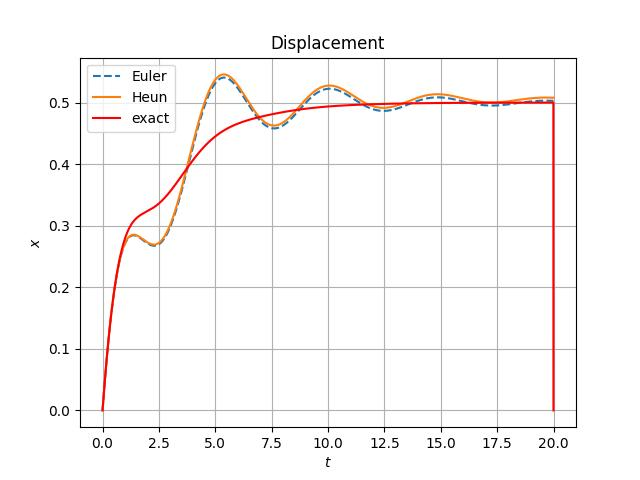
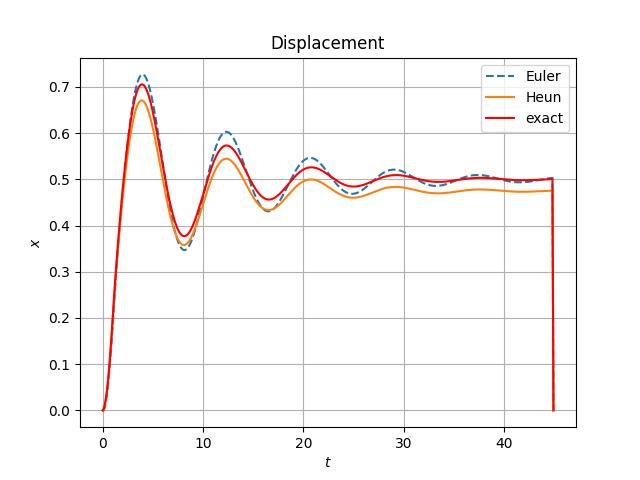
1216

diff --git a/eular.py b/eular.py
@@ -5,38 +5,57 @@ from matplotlib import pyplot as plt
 
 
 
-h=float(input("step size:"))   #define the step size
-#h=0.01 
+#h=float(input("step size:"))   #define the step size
+h=0.1 #for test
 print("h=")
 print(h)
 
-x=np.arange(0,20,h) # each of the time point
+x=np.arange(0,45,h) # each of the time point
 
-def Euler(f1,f2,f3,f4,x): #function for Euler method
-    h=x[1]-x[0]
-    y=np.zeros(len(x))
-    z1=np.zeros(len(x))
-    z2=np.zeros(len(x))
-    z3=np.zeros(len(x))
-    z4=np.zeros(len(x))
-    z4[0]=float('0.5') #the act force 
-    y[0]=0
+
+def impulse(t):
+    if t<1:
+        return 1
+    else:
+        return 0
+
+def Euler(Z,x): #function for Euler method
+    Z = np.zeros((len(x), 4))
+    Z3=np.zeros(len(x))
+    for i in range(len(x)-1):
+        Z[i+1]=h*state_matrix(x[i], Z[i])+Z[i]
+        Z3[i]=Z[i][2]
+    
+    return Z3
+
+'''
     for i in range(len(x)-1):
         z1[i+1]=z1[i]+h*f1(z2[i],x[i])   
         z2[i+1]=z2[i]+h*f2(z1[i],z2[i],z4[i],x[i])
         z3[i+1]=z3[i]+h*f3(z4[i],x[i])
         z4[i+1]=z4[i]+h*f4(z2[i],z4[i],x[i])
+#        test=x[i]
+#       test1=impulse(x[i])
     return [z1,z2,z3,z4]
+'''
 
+def heun(Z,x): #function for Heun method
+    Z = np.zeros((len(x), 4))
+    Z3=np.zeros(len(x))
+    for i in range(len(x)-1):
+        Z[i+1]=Z[i]+h*(0.5*state_matrix(x[i], Z[i])+0.5*state_matrix(x[i]+h, Z[i]+h*state_matrix(x[i], Z[i])))
+        Z3[i]=Z[i][2]
+    
+    return Z3
 
-def heun(f1,f2,f3,f4,x): #function for Heun method
+'''
     h=x[1]-x[0]
     y=np.zeros(len(x))
     z1=np.zeros(len(x))
     z2=np.zeros(len(x))
     z3=np.zeros(len(x))
     z4=np.zeros(len(x))
-    z4[0]=float('0.5') #the act force
+    z4[0]=z4[1]=0.5 #the act force
     y[0]=0
     for i in range(len(x)-1):
         z1[i+1]=z1[i]+h*(0.5*f1(z2[i],x[i])+0.5*f1(z2[i]+h,x[i]+h*(f1(z2[i],x[i]))))
@@ -44,34 +63,47 @@ def heun(f1,f2,f3,f4,x): #function for Heun method
         z3[i+1]=z3[i]+h*(0.5*f3(z4[i],x[i])+0.5*f3(z4[i]+h,x[i]+h*(f3(z4[i],x[i]))))
         z4[i+1]=z4[i]+h*(0.5*f4(z2[i],z4[i],x[i])+0.5*f4(z2[i]+h,z4[i]+h,x[i]+h*(f4(z2[i],z4[i],x[i]))))
     return [z1,z2,z3,z4]
+'''
+
+
+def state_matrix(x,Z):
+ dz1=Z[1]
+ dz2=-Z[0]-Z[1]+Z[3]
+ dz3=Z[3]
+ dz4=Z[1]-Z[3]+0.5*impulse(x)
+
+ return np.array([dz1,dz2,dz3,dz4])
+
 
 
 f1=lambda z2,x: z2
-f2=lambda z1,z2,z4,x: -z1- 0.5*z2**2+   z4
+f2=lambda z1,z2,z4,x: -z1- z2+   z4 -0.5  #f2=lambda z1,z2,z4,x: -z1- 0.5*z2**2+   z4
 f3=lambda z4,x:            z4
-f4=lambda z2,z4,x:-z2-z4
+f4=lambda z2,z4,x:z2-z4
 
 
 def ode(t,u): #odeint - the exact solution
     z1,z2,z3,z4=u
     dz1=z2
-    dz2=-z1-z2+z4
+    dz2=-z1-z2+z4-0.5
     dz3=z4
-    dz4=-z2-z4+0.5
+    dz4=z2-z4
+
+
     dzdt=[dz1,dz2,dz3,dz4]
     return dzdt
 
 
 
-
-[z1,z2,z3,z4]= Euler(f1,f2,f3,f4,x)  # z is the Euler method solution
-[w1,w2,w3,w4]= heun(f1,f2,f3,f4,x)   # w is the Heun method solution
-Exact = integrate.odeint(ode,[0,0,0,0],x,tfirst=True) # exact solution
+F = lambda Z,t: [Z[1],Z[3] - Z[1] - Z[0],Z[3],impulse(t)/2 + Z[1] - Z[3]]
+Eu_result= Euler(state_matrix,x)  # z is the Euler method solution
+He_result= heun(state_matrix,x)   # w is the Heun method solution
+Exact = integrate.odeint(F,[0,0,0,0],x) # exact solution
 
 
 exact=np.zeros(len(x))     # Extract the third variables - X2(t)
 for i in range(len(x)-1):
- exact[i]=Exact[i][3]
+ exact[i]=Exact[i][2]
  i+=1
 
 
@@ -79,22 +111,20 @@ Error_euler=np.zeros(len(x))   #error array initialize
 Error_Heun=np.zeros(len(x))
 
 def error(y,s):  # caclulate the error 
-   result=abs((y-s)/s)*100
+   result=abs((y-s)/s)
    return result
 
 for i in range(len(x)-1):  #save the error and print the result
- Error_euler[i]=error(z3[i],exact[i])
- Error_Heun[i]=error(w3[i],exact[i])
- print(x[i],"\t",exact[i],"\t",z3[i],"\t ",error(z3[i],exact[i]),"\t",w3[i],error(w3[i],exact[i]),"\t",end="\t")
+ Error_euler[i]=error(Eu_result[i],exact[i])
+ Error_Heun[i]=error(He_result[i],exact[i])
+ print(x[i],"\t",exact[i],"\t",Eu_result[i],"\t ",error(Eu_result[i],exact[i]),"\t",He_result[i],error(He_result[i],exact[i]),"\t",end="\t")
  print()
 
 
 
-
-
 # plot the simulation
-plt.plot(x,z3,'--',label='Euler')
-plt.plot(x,w3,label='Heun')
+plt.plot(x,Eu_result,'--',label='Euler')
+plt.plot(x,He_result,label='Heun')
 plt.plot(x,exact,'r-',label='exact')
 plt.legend()
 plt.title('Displacement')
@@ -111,7 +141,7 @@ plt.plot(x,Error_Heun,label='Heun')
 plt.legend()
 plt.title('Error in this step size')
 plt.xlabel('$t$')
-plt.ylabel('$Error%$')
+plt.ylabel('$Error\%$')
 plt.grid()
 plt.savefig('./2.jpg')
 plt.show()

diff --git a/.1/zzh.py b/.1/zzh.py
@@ -1,0 +1,115 @@
+import numpy as np
+from matplotlib import pyplot as plt
+from scipy import integrate
+t = np.arange(0, 45, 0.0001)
+'''we choose 55s as the end time, although we can see the system has become stable since 35s
+add 10s to 45s just to ensure it is stable
+we can see that,0.0001s as a step  to ensure the error percent lower than 1%'''
+
+'''this is the unit impluse force input'''
+def impulseForce(t):
+    if t < 1:
+        return 1
+    else:
+        return 0
+    
+def dX(t, X):
+    '''The function is the equivalent of the derivative matrix"
+    It requires two inputs
+    - t, one single value of time
+    - X, is the matrix of x1, x1_dot, x2, x2_dot'''
+   
+    x1_dot = X[1]
+    x1_double_dot = X[3] - X[1] - X[0]
+    x2_dot = X[3]
+    x2_double_dot = impulseForce(t)/2 + X[1] - X[3]
+
+    return np.array([x1_dot, x1_double_dot, x2_dot, x2_double_dot])
+    
+#define odeint
+F = lambda X,t: [X[1],X[3] - X[1] - X[0],X[3],impulseForce(t)/2 + X[1] - X[3]]
+Xodeint=integrate.odeint(F,[0,0,0,0],t)   
+
+
+def eulerMethod(dX,t):
+    '''This returns the approximated values of x2 for every time instants
+    Requires 2 inputs:
+    - dX, this is your derivative function
+    - t, an array of time instances 
+    '''
+    #Create a matrix of zeros
+    #The number of rows is equal to the number of time instances
+    #The number of columns is 4
+    X = np.zeros((len(t), 4))
+
+    h = t[1] - t[0]
+
+    #iteration
+    for i in range(len(t)-1):
+        X[i+1] = h * dX(t[i], X[i]) + X[i]
+
+    #This returns the 3rd column of the matrix X which is x2 (mass 2's displacement)
+    return X[:,2]
+
+def RungeKuttaMethod(dX,t):
+    '''This returns the approximated values of x2 for every time instants
+    Requires 2 inputs:
+    - dX, this is your derivative function
+    - t, an array of time instances 
+    '''
+    #Create a matrix of zeros
+    #The number of rows is equal to the number of time instances
+    #The number of columns is 4
+    X = np.zeros((len(t), 4))
+
+    #Variables for runge kutta method
+    a_1 = 1/2
+    a_2 = 1/2
+    p_1 = 1
+    q_11 = 1
+
+    h = t[1] - t[0]
+
+    #iterate 
+    for i in range(len(t)-1):
+        k_1 = dX(t[i], X[i])
+        k_2 = dX(t[i] + p_1 * h, X[i] + q_11 * k_1 * h)
+        X[i+1] = X[i] + (a_1 * k_1 + a_2 * k_2) * h
+
+    #This returns the 3rd column of the matrix X which is x2 (mass 2's displacement)
+    return X[:,2]
+#Make list of each version
+list_of_x2_euler = eulerMethod(dX, t)
+list_of_x2_runge = RungeKuttaMethod(dX, t)
+list_of_x2_odeint = Xodeint[:,2]
+
+#Plot them and display on the same graph
+plt.plot(t, list_of_x2_euler)
+plt.plot(t, list_of_x2_runge, '-.')
+plt.plot(t,Xodeint[:,2],':')
+plt.title("Output response using Euler and Runge Kutta Method")
+plt.xlabel("t, seconds")
+plt.ylabel("output position, x2(t)")
+plt.grid()
+plt.show()
+
+
+#equation to find the final value using odeint and Euler method and Runge kutta method
+final_Value_odeint=list_of_x2_odeint[len(list_of_x2_odeint)-1]
+final_Value_Euler = list_of_x2_euler[len(list_of_x2_euler)-1]
+final_Value_Runge = list_of_x2_runge[len(list_of_x2_runge)-1]
+
+#print the final value of Euler, Runge Kutta and odeint
+print("The final value using the Euler method is", final_Value_Euler)
+print("The final value using the Runge Kutta method is", final_Value_Runge)
+print("The final value using the odeint method is",final_Value_odeint)
+
+#equation to find error using Euler method and Runge kutta method,we use odeint as final value
+Euler_error = final_Value_Euler - final_Value_odeint
+Runge_error = final_Value_odeint -final_Value_Runge 
+print("The error using the Euler method is", Euler_error)
+print("The percentage error using the Euler method is ", (Euler_error/final_Value_odeint)*100,"%") 
+print("The error using the Runge Kutta method is", Runge_error)
+print("The percentage error using the Runge Kutaa method is", (Runge_error/final_Value_odeint)*100,"%") 
+
+

diff --git a/.1/wyy.py b/.1/wyy.py
@@ -1,0 +1,94 @@
+from __future__ import division
+import numpy as np
+from matplotlib import pyplot as plt
+
+#Euler method
+x1E_list = [] #use list[] to expand the scope of index
+x2E_list = []
+t_list = []
+
+x1E = 0  #define system variables for using Euler method. Start from 0.
+x2E = 0
+z1E = 0 
+z2E = 0 
+dt = 0.001 #choose h=Δt=0.001
+ #define time range 
+
+#Using if statement to define system input:f(t)
+def Force(t):
+    if 0<t <=0.002:
+        return 1
+    else:
+        return 0
+    
+#Using for statement to finish superposition process
+for i in range(int(60/dt)):
+    t = i*dt  
+    x1E += dt*(z1E) #For ODE,dx1/dt=z1
+    x2E += dt*(z2E) #dx2/dt=z2
+    z1E += dt*(-z1E-1/2-x1E+z2E) #dz1/dt Simplify the given Eq(6),(7)
+    z2E += dt*(Force(t)/2+z1E-z2E) #dz2/dt 
+    x1E_list.append(x1E) #Append data in case of codes insufficient capacity 
+    x2E_list.append(x2E)
+    t_list.append(t)
+
+#plt.plot(t_list,x1E_list,color ='g')
+plt.plot(t_list,x2E_list,color ='r')
+
+plt.title('Euler method simulation result')
+plt.xlabel('t[s]')
+plt.ylabel('output position x2(t)')
+
+plt.show()
+
+Error_x2E = abs(1/2-abs(x2E_list[-1])) #1/2 is FVT result,use it to calculate errors
+Error_x2EP = Error_x2E/abs(x2E_list[-1])*100 #calculate percentage error, the result is 0.36%
+print("the Euler method error percentage is",Error_x2EP)
+#Heun method
+x1H_list = [] #use list[] to expand the scope of index
+x2H_list = []
+t_list = []
+dt = 0.01 #choose h=Δt=0.01
+x1H = 0 #define system variables for using Heun method. Start from 0.
+x2H = 0
+z1H = 0 
+z2H = 0 
+k1_x1 = 0  #define k1^x1 (Heun method)
+k2_z1=  0  #define k1^z1 (Heun method)
+k1_x2 = 0  #define k1^x2 (Heun method)
+k2_z2 = 0  #define k1^z2 (Heun method)
+#Using if statement to define system input:f(t)
+def Force(t):
+    if  0<t<=1:
+        return 1
+    else:
+        return 0
+
+for i in range(int(60/dt)):
+    t = i*dt
+    k1_x1 = z1H #Using Heun, k1^x1=f1(t,x1,z1)
+    k2_z1 += dt*(z1H) #k2^z1=f2(t,z1,z2)
+    z1H += dt*(-z1H-k2_z1+z2H)
+    x1H += dt*(1/2)*(k1_x1+z1H)
+    
+    k1_x2 = z2H
+    k2_z2 += dt*(z2H)
+    z2H += dt*(Force((t+dt))/2+z1H-z2H)
+    x2H += dt*(1/2)*(k1_x2+z2H)
+    
+    x1H_list.append(x1H)
+    x2H_list.append(x2H)
+    t_list.append(t)  
+  
+#plt.plot(t_list,x1H_list,color ='b')
+plt.plot(t_list,x2H_list,color ='orange')
+
+plt.xlabel('t[s]')
+plt.ylabel('output position x2(t)')
+plt.title('Heun method simulation result')
+
+plt.show()
+
+Error_x2H = abs(1/2-abs(x2H_list[-1])) #1/2 is FVT result,use it to calculate errors
+Error_x2HP = Error_x2E/abs(x2H_list[-1])*100 #calculate percentage error, the result is 0.36%
+print("the Heun method error percentage is",Error_x2HP)
